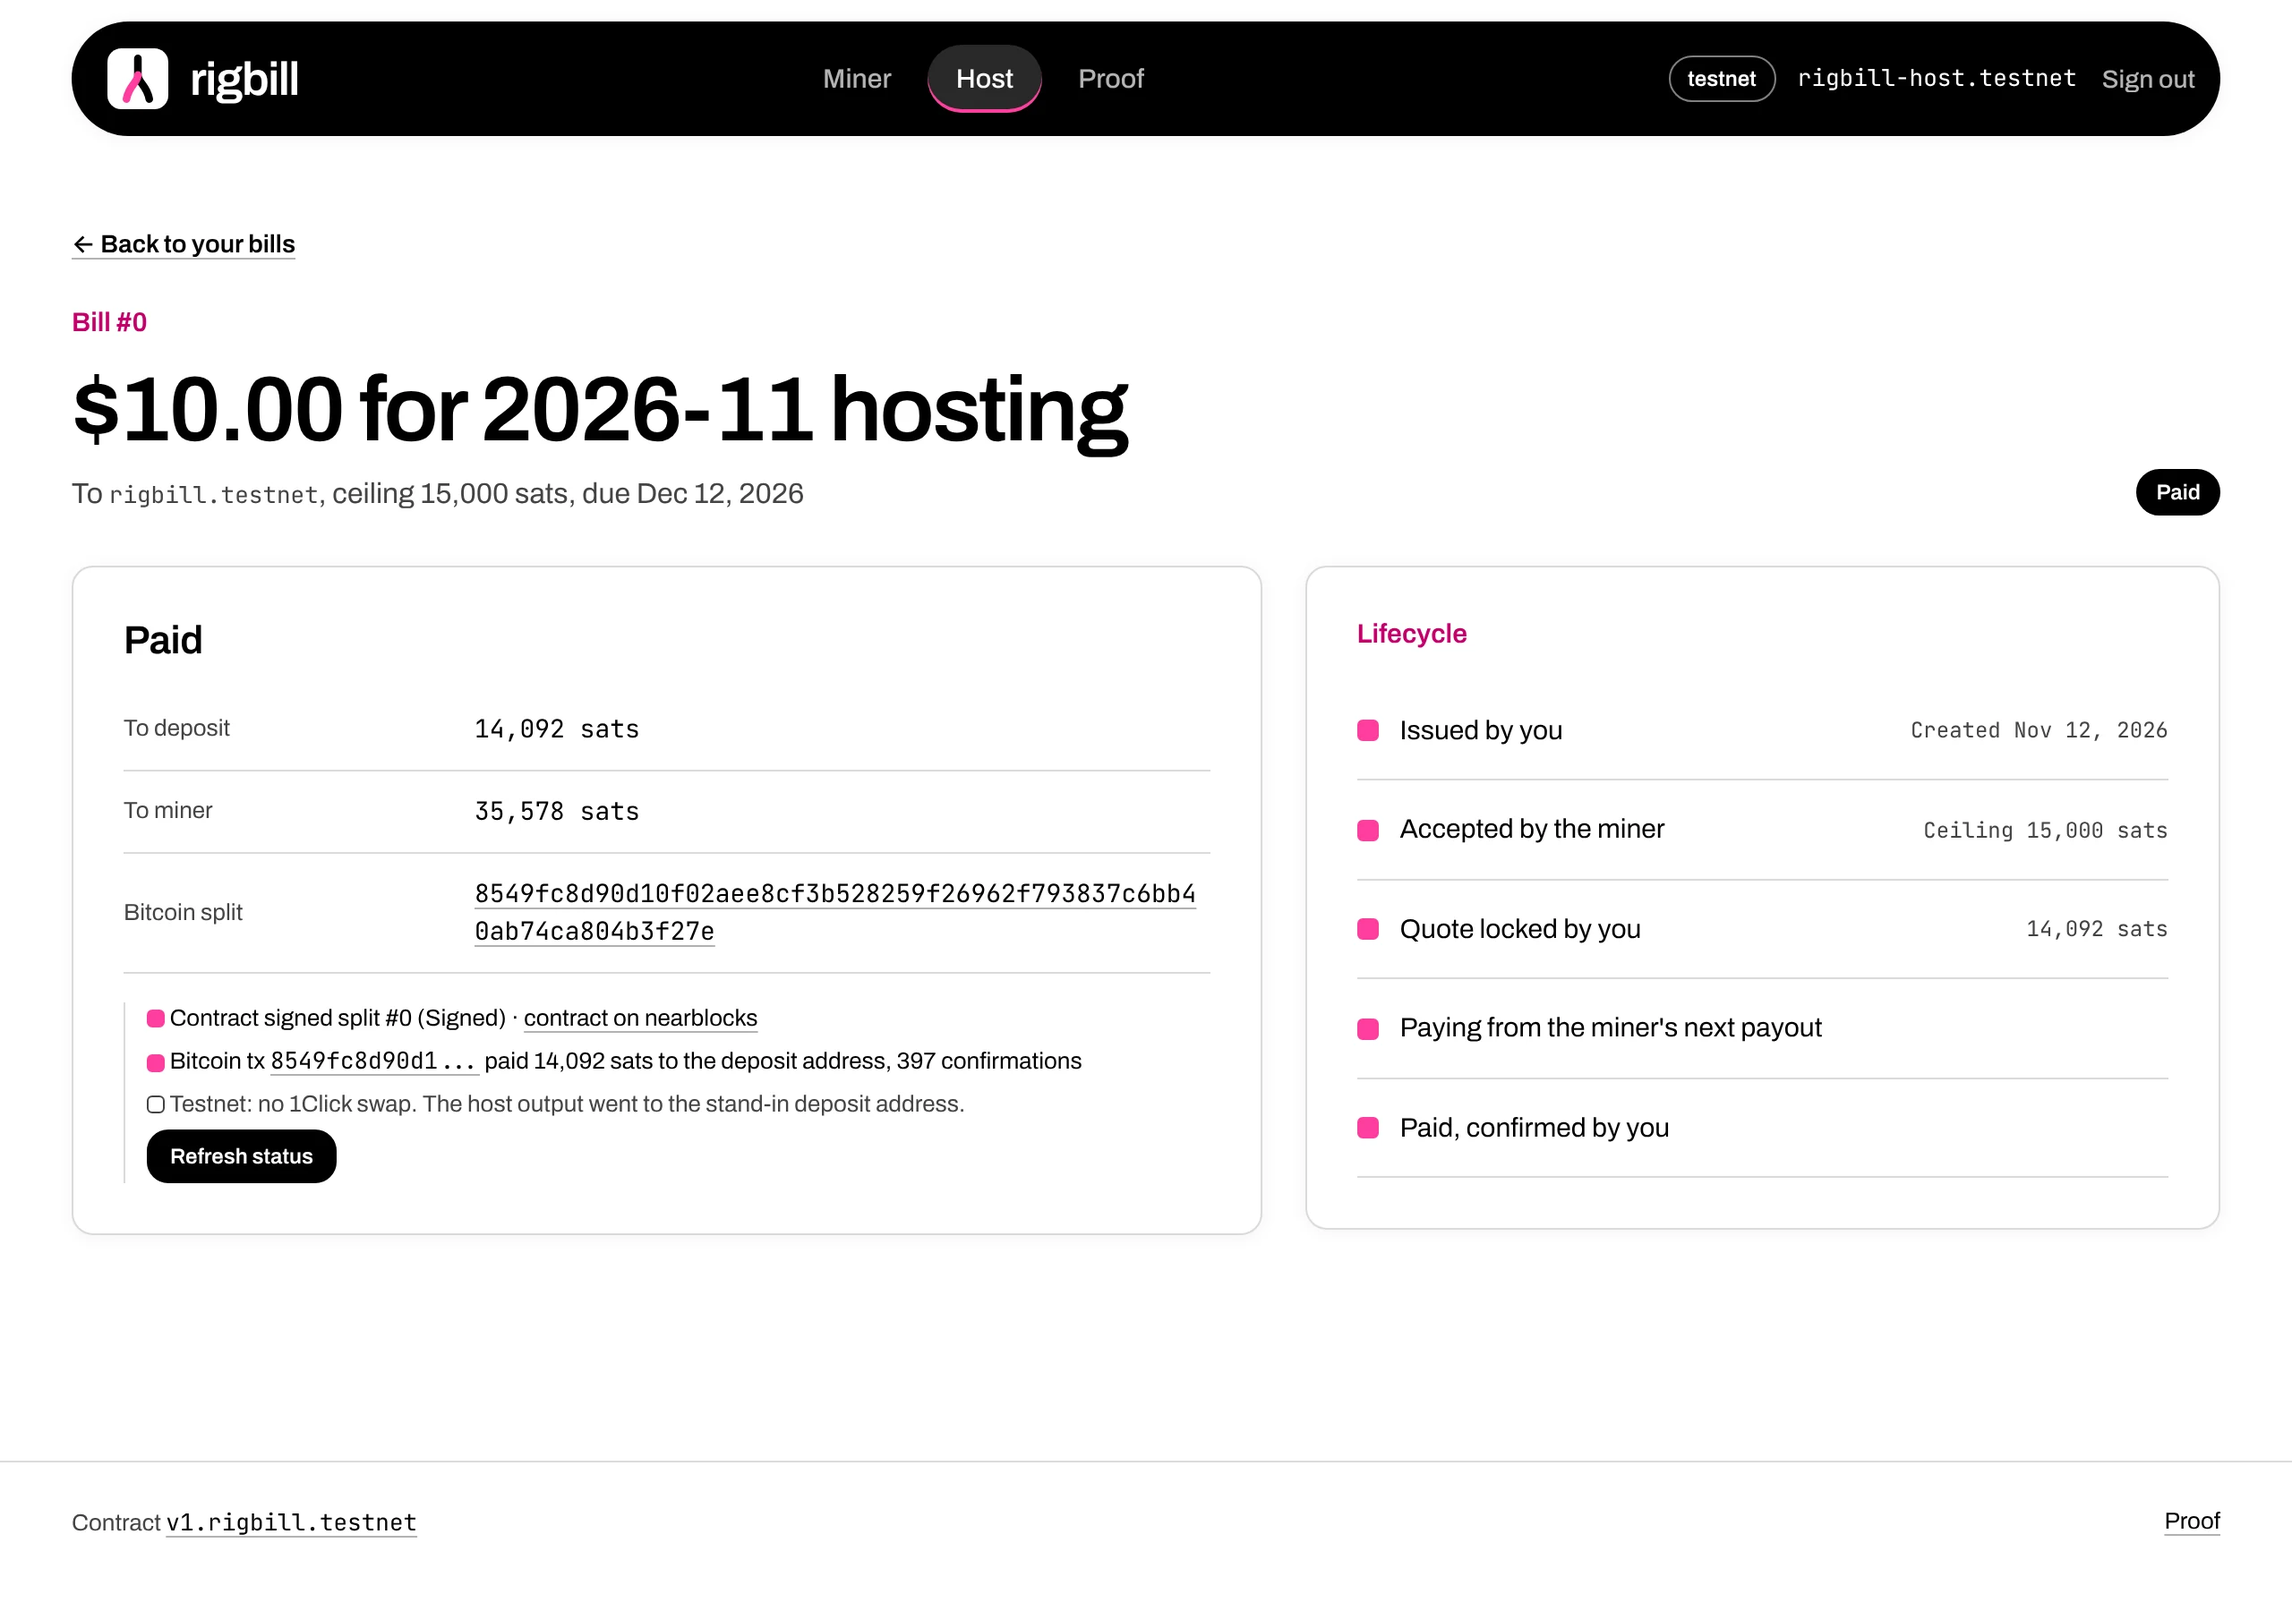
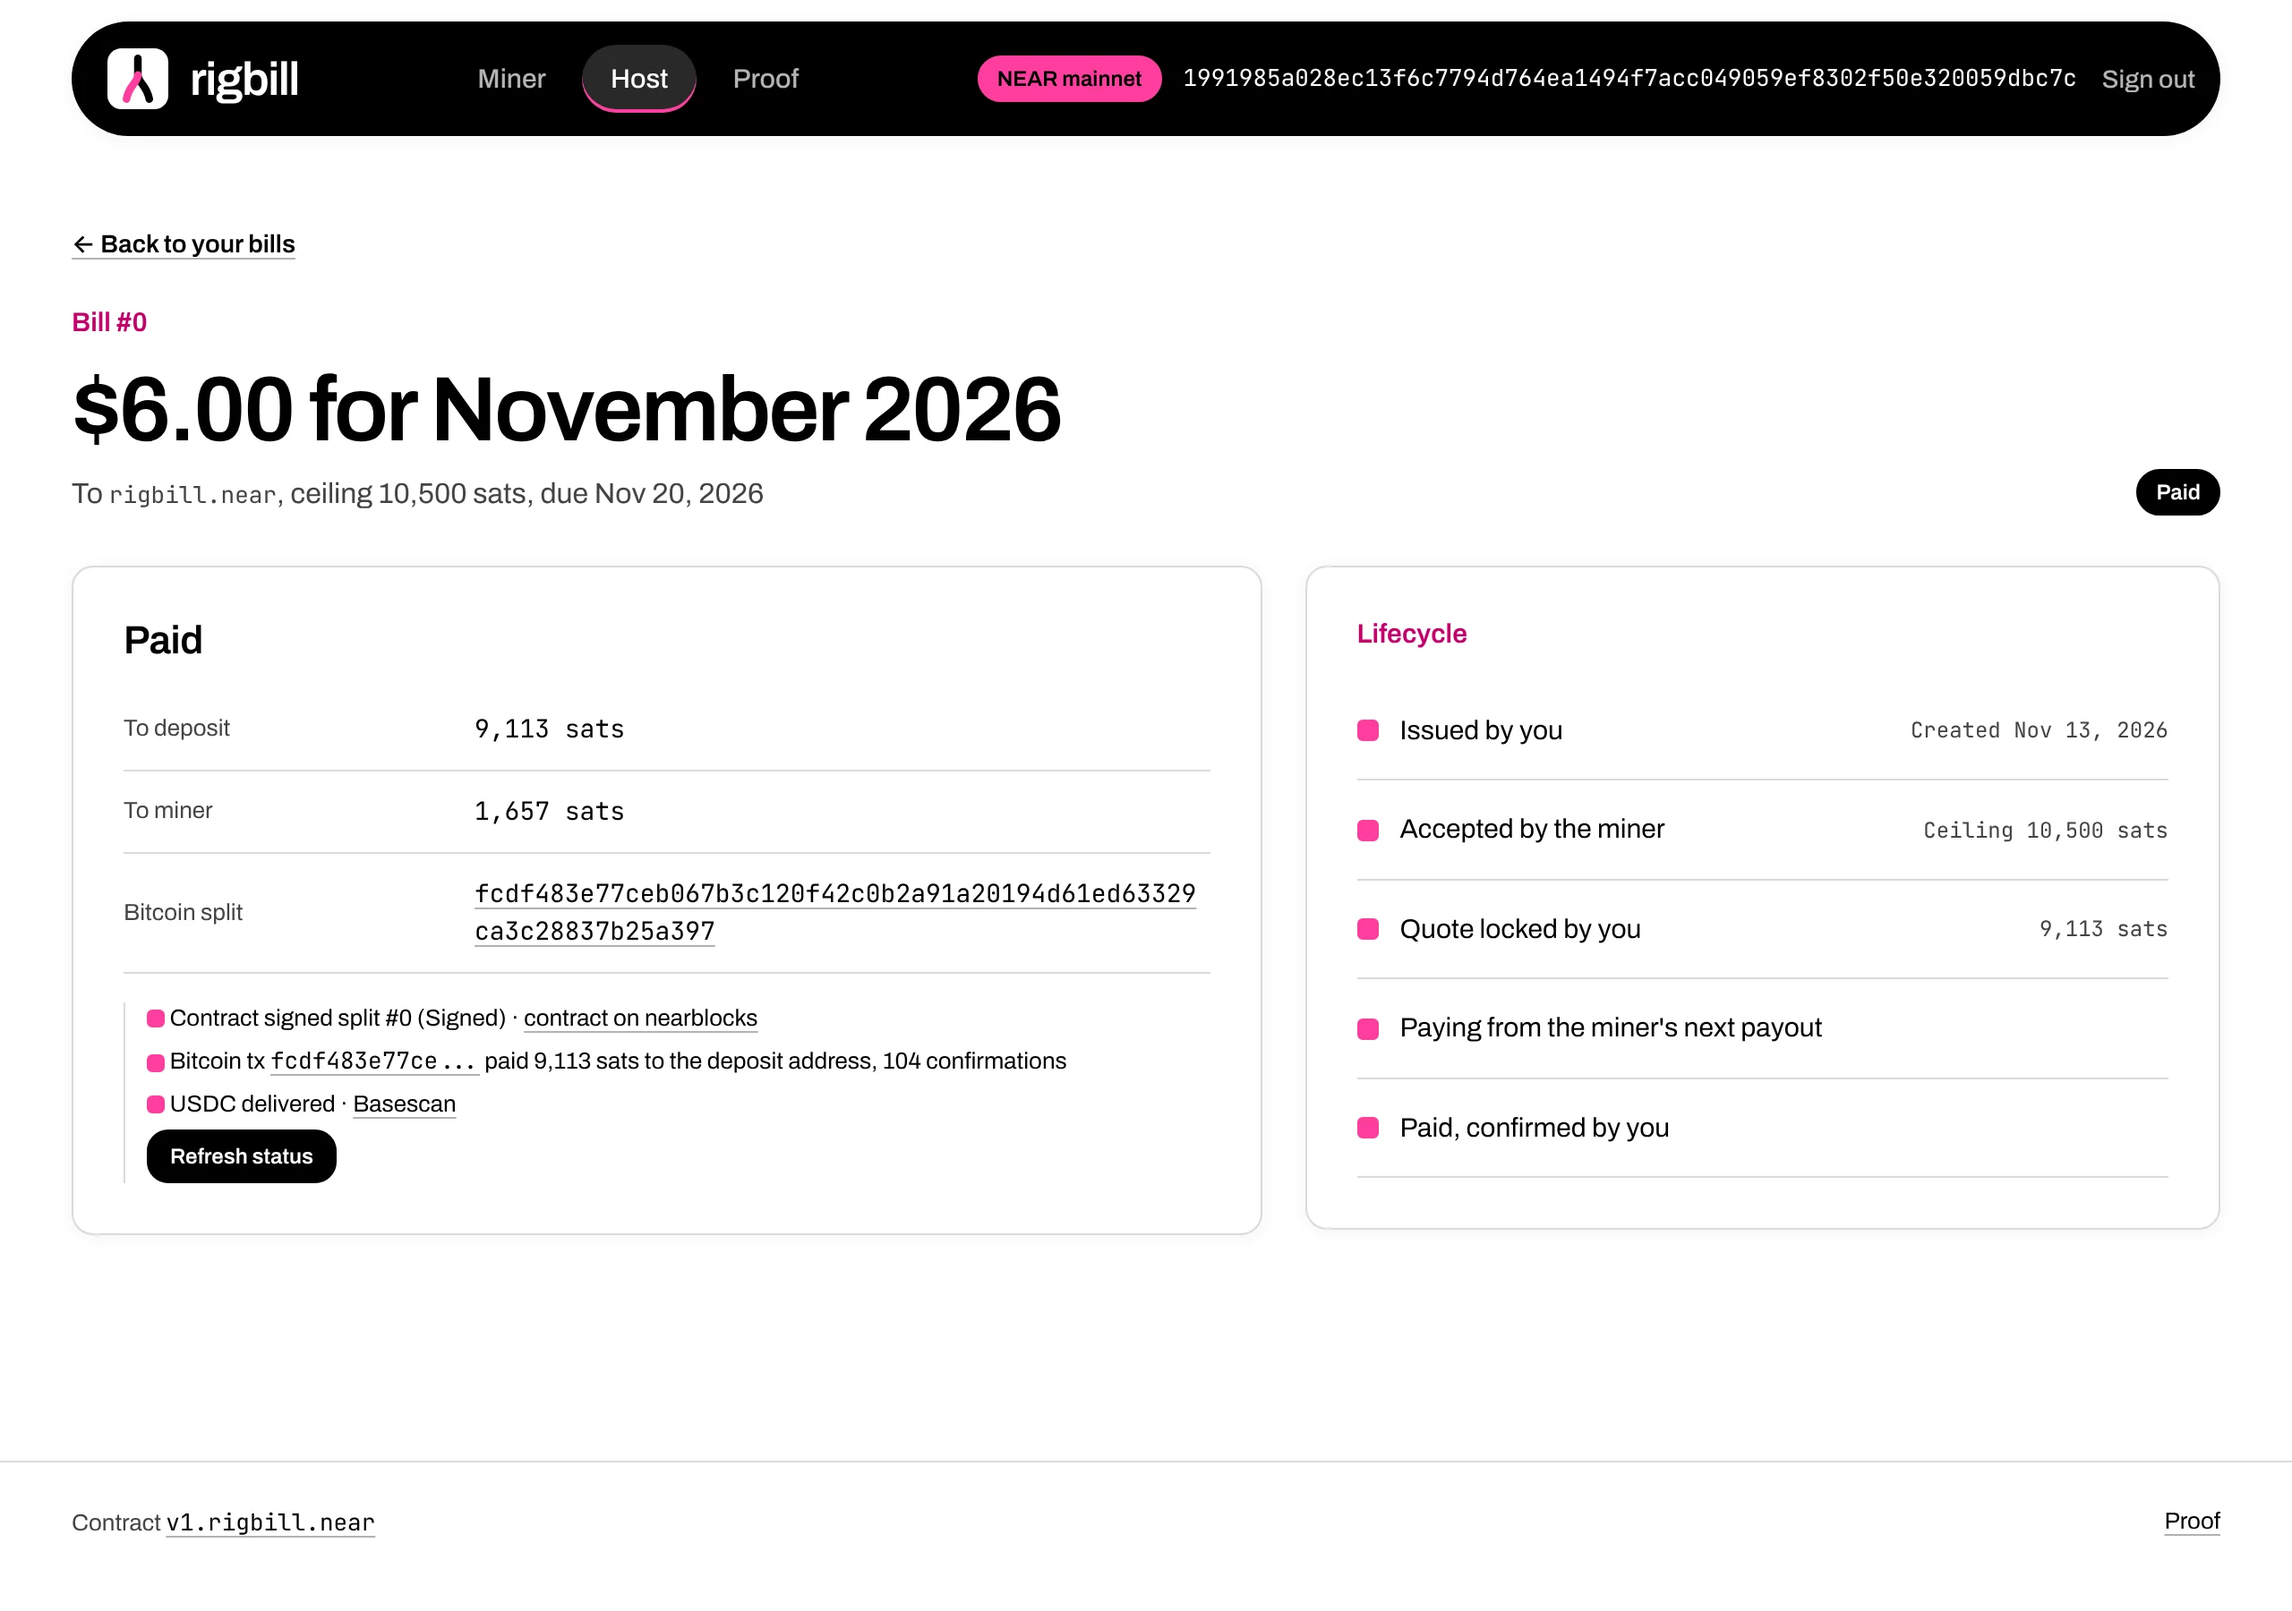
Retake the miner and host screens on mainnet and show NEAR mainnet as a pink badge in the app

diff --git a/web/src/AppShell.tsx b/web/src/AppShell.tsx
@@ -25,7 +25,7 @@ export function AppShell({ active, children }: { active: Tab; children: (account
             <Link to="/proof" className={active === "proof" ? "on" : ""}>Proof</Link>
           </nav>
           <div className="app-who">
-            <span className={`chip ${network === "testnet" ? "chip-review" : "chip-lime"}`}>{network}</span>
+            <span className={`chip ${network === "testnet" ? "chip-review" : "chip-lime"}`}>{network === "mainnet" ? "NEAR mainnet" : network}</span>
             {account && <span className="mono">{account}</span>}
             {account && <button className="link-btn" onClick={() => void signOut().catch(() => {})}>Sign out</button>}
             {account === null && <button className="btn-light" onClick={connect}>Sign in with NEAR</button>}

diff --git a/web/src/index.css b/web/src/index.css
@@ -258,7 +258,7 @@ dd { margin: 0; }
 .app-who { color: #ffffff; }
 .app-who .link-btn { color: #ffffffb3; }
 .app-who .link-btn:hover { color: #ffffff; }
-.app-who .chip-lime { background: transparent; border-color: #ffffff80; color: #ffffff; }
+.app-who .chip-lime { background: var(--lime); border-color: var(--lime); color: #000000; }
 .app-who .chip-review { background: transparent; color: #ffffff; border-color: #ffffff80; }
 .app-body { padding: 48px 0 96px; min-height: calc(100vh - 160px); }
 .app-foot { border-top: 1px solid var(--rule); padding: 24px 0; }

diff --git a/README.md b/README.md
@@ -17,7 +17,7 @@ Built at NEAR HACKATHON · #NEARHackathon · [@NEARProtocol](https://x.com/NEARP
 | Demo post | [x.com/MystiqueMide/status/2121614001477926978](https://x.com/MystiqueMide/status/2121614001477926978) |
 | Live app | [rigbill.midelabs.xyz](https://rigbill.midelabs.xyz) (NEAR mainnet) |
 | Live proof | [rigbill.midelabs.xyz/proof](https://rigbill.midelabs.xyz/proof) |
-| Contract | [`v1.rigbill.near`](https://nearblocks.io/address/v1.rigbill.near) on mainnet, `v1.rigbill.testnet` on testnet |
+| Contract | [`v1.rigbill.near`](https://nearblocks.io/address/v1.rigbill.near) on NEAR mainnet |
 | Judging guide | [JUDGE.md](JUDGE.md): a 5 minute path through the product and the proof |
 | Tracks | Real-World Money (`realworld`), Open Innovation (`open`) |
 
@@ -249,31 +249,31 @@ The same build ran the loop first on NEAR testnet and Bitcoin testnet4 (`NETWORK
 
 ## Screens
 
-Every screen reads live state from the contract, Bitcoin and NEAR. Nothing is sample data. The proof and landing pages are on mainnet; the miner and host screens are from the testnet app, signed in as `rigbill.testnet` and `rigbill-host.testnet`.
+Every screen is the live app on NEAR mainnet, signed in as the real accounts from the mainnet run: `rigbill.near` as the miner and the host that issued bill #0. Nothing is sample data. Each one reads the contract, Bitcoin and NEAR live.
 
 ### Miner home
 
-![Miner home on testnet. Top left: the payout address tb1qmhw640… with Copy address, Show QR code and View on mempool.space. Top right: the confirmed balance. Middle: open bill #1, $10.00 for 2026-12 hosting from rigbill-host.testnet, due Dec 13 2026, ceiling 15,000 sats, locked quote 14,000 sats, with the line "Your next payout pays 14,000 sats to your host first. Everything above that goes to your wallet." Bottom: the bills list and the "Send everything to my wallet" panel.](docs/screens/miner-home.webp)
+![Miner home on NEAR mainnet, signed in as rigbill.near, with the pink NEAR mainnet badge in the nav. Your payout address bc1qha9neh96udkmnrudq70xc4rfzvnr6p60truyns with Copy address, Show QR code and View on mempool.space. Balance 0 sats, since the last payout was split. Bills: #1 $6.50 November 2026 Withdrawn, #0 $6.00 November 2026 Paid with split fcdf483e. No open bill, so every payout goes straight to the cold wallet. Settings: cold wallet bc1q9ljm5ccjnxlra49evsqrfxdw054w96hljsd4vv, fee cap 3,000 sats, payout key 03c83c5d…ac1f derived by v1.signer.](docs/screens/miner-home.webp)
 
-The miner's whole picture on one screen: the payout address to paste into the pool, what's waiting there, the open bill and exactly what the next payout will pay. The "Send everything to my wallet" panel lets the miner try to skip the bill and watch the contract refuse it on chain.
+The miner's whole picture on one screen: the payout address to paste into the pool, what's waiting there, every bill and its state, and the settings the contract enforces. While a bill is open, this screen shows exactly what the next payout will pay the host, and a "Send everything to my wallet" button that lets the miner try to skip the bill and watch the contract refuse it on chain.
 
 ### Miner controls: settings, approved relayers, release a split
 
-![Miner settings and controls on testnet. Settings: cold wallet tb1qa5zy…, fee cap 3,000 sats per payout, payout key 02504ac7…f1ca derived by v1.signer-prod.testnet. Approved relayers: an empty list with "None yet. Only you and your host can request a split", a field to add a NEAR account and Save relayers. Release an unused split: split number 0 looked up, status Signed, Bitcoin transaction 8549fc8d…, pays bill #0, with "This split paid bill #0, so it's on Bitcoin and can't be released."](docs/screens/miner-controls.webp)
+![Miner settings and controls on NEAR mainnet. Settings: cold wallet bc1q9ljm…, fee cap 3,000 sats per payout, payout key derived by v1.signer. Approved relayers: one approved account, 1991985a…dbc7c, with Remove, and a field to add a NEAR account. Release an unused split: split 0 looked up, status Signed, Bitcoin transaction fcdf483e77ce…, pays bill #0, with "This split paid bill #0, so it's on Bitcoin and can't be released."](docs/screens/miner-controls.webp)
 
-The miner sets their cold wallet and fee cap, approves up to three relayer accounts (such as the keeper agent) that may ask the contract for splits, and can release a split that was signed but never reached Bitcoin. The app checks the chain first and refuses to release a split that's already on Bitcoin.
+The miner sets their cold wallet and fee cap, approves up to three relayer accounts (such as the keeper agent) that may ask the contract for splits, and can release a split that was signed but never reached Bitcoin. The app checks the chain first and refuses to release a split that's already on Bitcoin, as it does here for the mainnet split that paid bill #0.
 
 ### Host: issue bills
 
-![Host screen on testnet. Left: the Issue a bill form with the miner's NEAR account, amount in USD, period, due date and the host's Base address for USDC, with the note "Locks 0.01 NEAR for storage. The bill does nothing until the miner accepts it." Right: Bills you issued, four bills: #4 $7.50 Withdrawn, #3 $6.00 Quote locked, #1 $10.00 Quote locked, #0 $10.00 Paid.](docs/screens/host-bills.webp)
+![Host screen on NEAR mainnet. Left: the Issue a bill form with the miner's NEAR account, amount in USD, period, due date and the host's Base address for USDC. Right: Bills you issued, two bills to rigbill.near: #1 $6.50 November 2026 Withdrawn, #0 $6.00 November 2026 Paid.](docs/screens/host-bills.webp)
 
 The host bills a miner in US dollars and names the Base address where USDC should land. Each bill shows its state and what it's waiting for next.
 
 ### Host: one bill, paid
 
-![Host view of bill #0 on testnet: $10.00 for 2026-11 hosting to rigbill.testnet, ceiling 15,000 sats, due Dec 12 2026, Paid. Left: 14,092 sats to the deposit, 35,578 sats to the miner, the Bitcoin split txid, "Contract signed split #0", "Bitcoin tx 8549fc8d… paid 14,092 sats to the deposit address, 397 confirmations". Right: the lifecycle, Issued, Accepted with ceiling 15,000 sats, Quote locked at 14,092 sats, Paying, Paid confirmed by you.](docs/screens/host-bill.webp)
+![Host view of mainnet bill #0: $6.00 for November 2026 to rigbill.near, ceiling 10,500 sats, Paid. Left: 9,113 sats to the 1Click deposit, 1,657 sats to the miner, Bitcoin split fcdf483e77ceb067b3c120f42c0b2a91a20194d61ed63329ca3c28837b25a397, "Contract signed split #0 (Signed)", "Bitcoin tx fcdf483e77ce… paid 9,113 sats to the deposit address", "USDC delivered · Basescan". Right: the lifecycle, Issued by you, Accepted by the miner with ceiling 10,500 sats, Quote locked at 9,113 sats, Paying from the miner's next payout, Paid, confirmed by you.](docs/screens/host-bill.webp)
 
-Every step of the bill, from issue to paid, with the Bitcoin transaction that paid it. On mainnet this screen also follows the 1Click swap and enables Confirm paid in one click once 1Click reports the USDC delivered, with the Basescan link.
+The real bill #0 from issue to paid: the Bitcoin split that paid it, the 1Click swap reported as delivered with the Basescan link, and the full lifecycle. Once 1Click reports the USDC delivered, Confirm paid is one click.
 
 ### Live proof
 
@@ -398,18 +398,20 @@ Relayer:
 cd relayer && npm install
 ```
 
+Everything runs on mainnet by default. Set `NETWORK=testnet` for testnet.
+
 ```bash
-NETWORK=testnet npm run relayer -- address <miner.testnet>
+npm run relayer -- address rigbill.near
 ```
 
 ```bash
-NETWORK=testnet npm run relayer -- split <miner.testnet> --dry-run
+npm run relayer -- split rigbill.near --dry-run
 ```
 
 `--dry-run` builds and prints the split without signing. It needs at least one confirmed payout at the miner's payout address.
 
 ```bash
-NETWORK=testnet npm run relayer -- status <miner.testnet>
+npm run relayer -- status rigbill.near
 ```
 
 `split` without `--dry-run` needs a funded NEAR account in `RELAYER_ACCOUNT_ID` and `RELAYER_PRIVATE_KEY` (see `.env.example`). The relayer has no special rights beyond being allowed to ask: the miner approves it with `set_relayers`, it can only submit splits the contract accepts, and it refuses to broadcast unless every MPC signature verifies against the payout key and the contract's sighashes match its own build.
